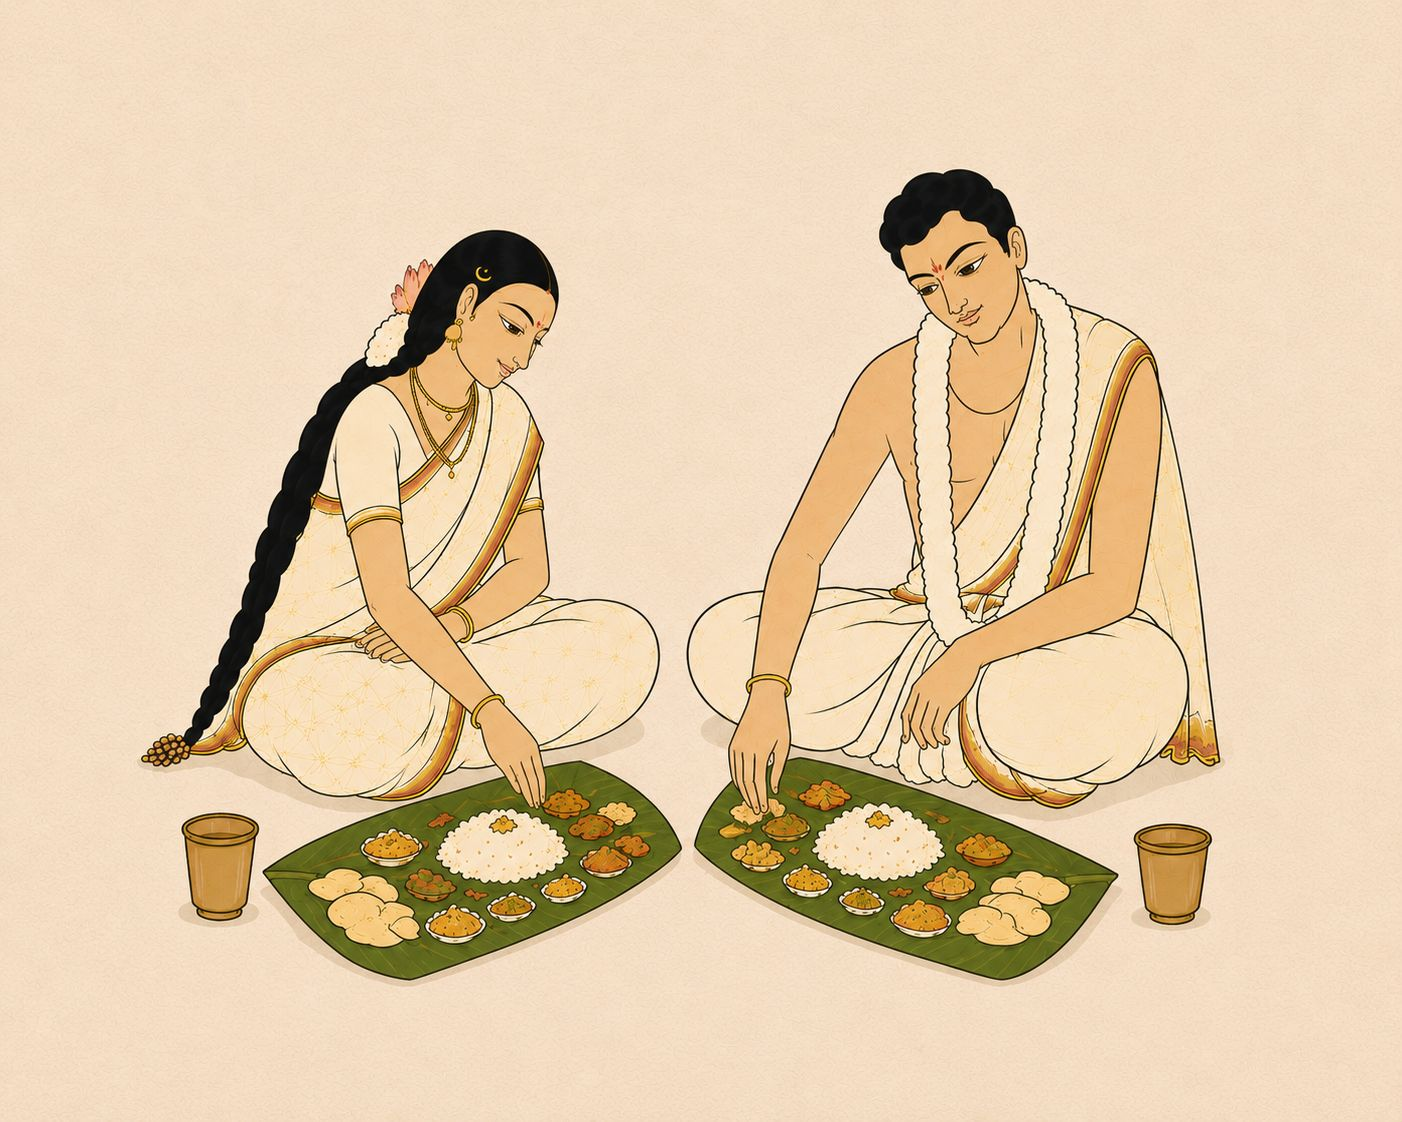
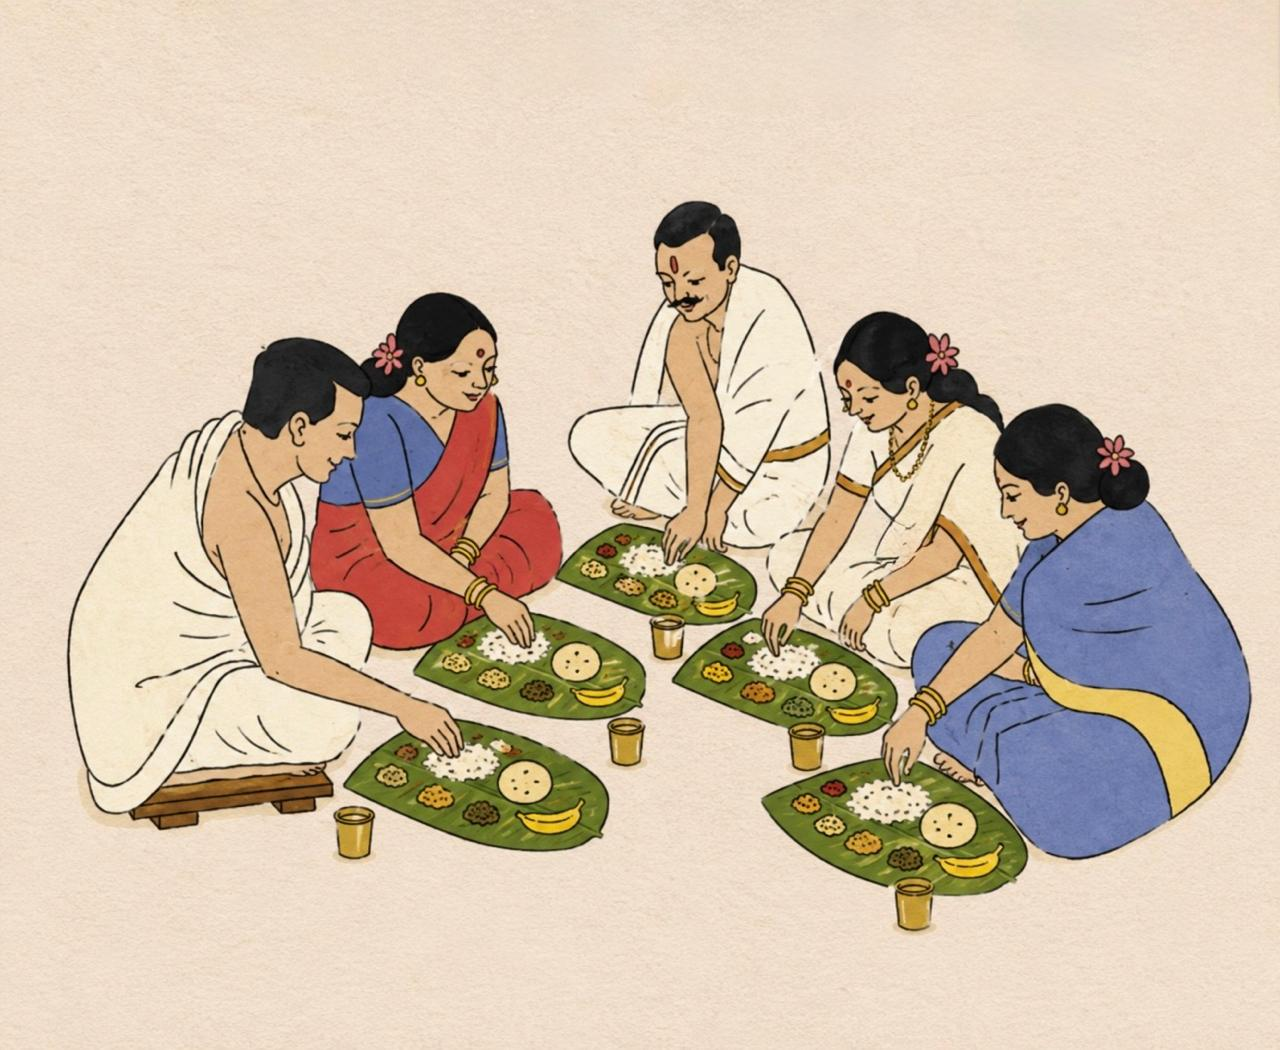
Replaced artwork

diff --git a/index.html b/index.html
@@ -678,7 +678,7 @@ footer .panel {
       <!-- Lunch -->
       <div class="ev-row img-left">
         <div class="ev-art">
-          <img src="images/art_nichayam.png" alt="Lunch & Farewells">
+          <img src="images/art_lunch.png" alt="Lunch & Farewells">
         </div>
         <div class="ev-text">
           <p class="ev-name">Post-ceremony</p>
